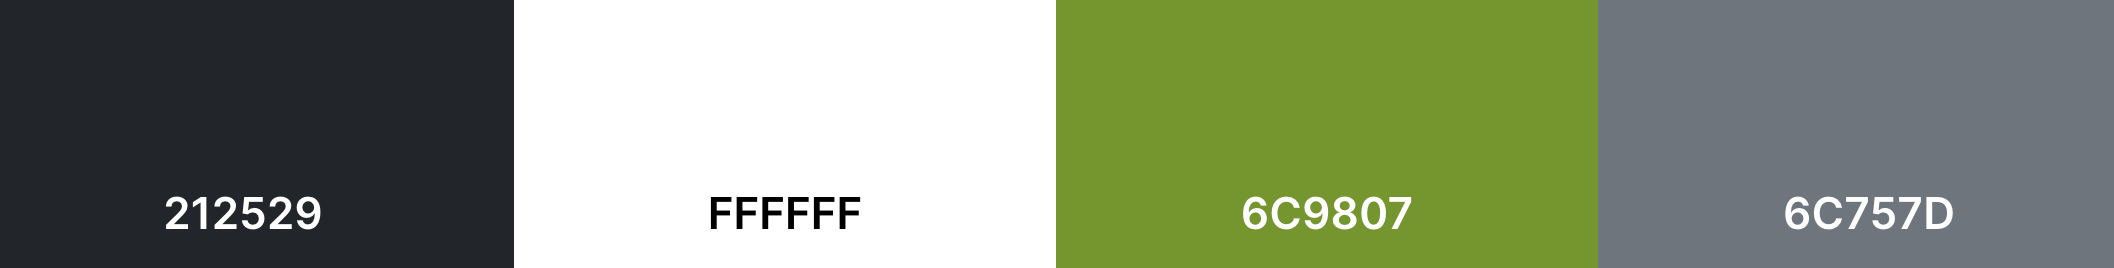
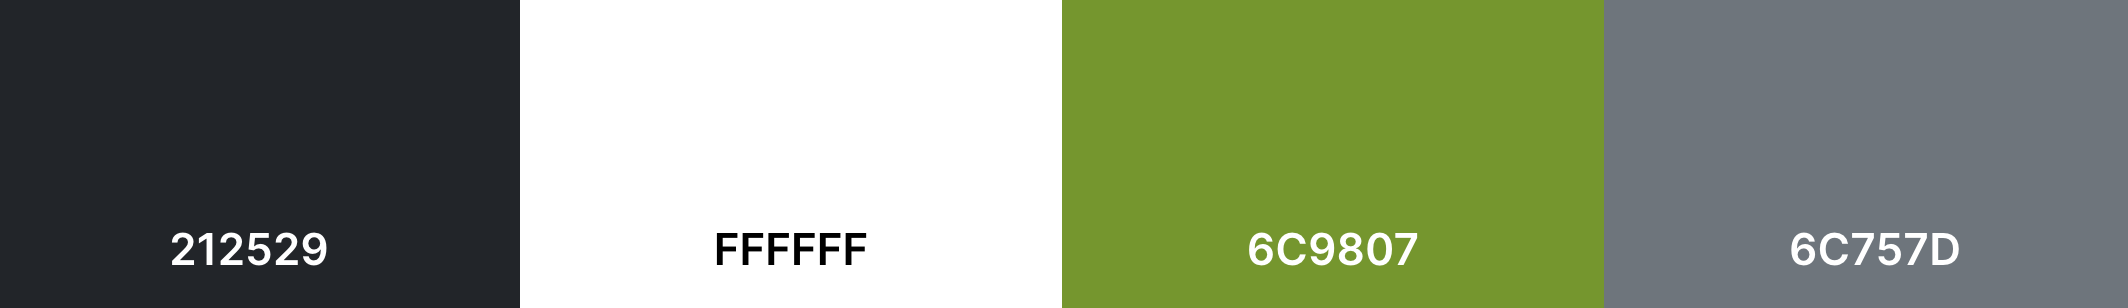
Change button colour for accessibility

diff --git a/static/css/style.css b/static/css/style.css
@@ -128,14 +128,14 @@ ul.hidden-radio>li.pressed {
 /* Member Zone styling */
 
 .active-btn {
-    background-color: #6c9807;
+    background-color: #415F07;
     margin: 15px 0px;
     width: 100%;
 }
 
 .active-btn:hover,
 .active-btn-small:hover {
-    background-color: #577a06;
+    background-color: #385007;
 }
 
 .back-btn {
@@ -145,7 +145,7 @@ ul.hidden-radio>li.pressed {
 }
 
 .active-btn-small {
-    background-color: #6c9807;
+    background-color: #415F07;
     margin: 15px 0px;
 }
 

diff --git a/README.md b/README.md
@@ -24,7 +24,6 @@ Project Repository - [Woodland Heath Golf Club - Repository](https://github.com/
   - [User Requirement Testing](#user-requirement-testing "User Requirement Testing")
   - [Functional Testing](#functional-testing "Functional Testing")
   - [Validator Testing](#validator-testing "Validator Testing")
-  - [Unfixed Bugs](#unfixed-bugs "Unfixed Bugs")
 - [Technologies Used](#technologies-used "Technologies Used")
   - [Main Languages Used](#main-languages-used "Main Languages Used")
 - [Deployment](#deployment "Deployment")
@@ -284,10 +283,11 @@ Please expand 'Functional Test Cases' below to see a breakdown of the tests carr
 |  <br>TC-042     |  <br>Logout - When the logout button is clicked in the navigation bar, the user is redirected to the home page and a success alert is displayed                                                                            |  <br>User is logged in                                                                |  <br>1. Click Logout link in navigation bar<br> <br><br><br> <br>2. Check user is redirected back to home page <br> <br><br><br> <br>3. Check alert is displayed to user to confirm they have been logged out   |  <br>Pass    |  <br>          ||  <br>TC-042     |  <br>Logout - When the logout button is clicked in the navigation bar, the user is redirected to the home page and a success alert is displayed                                                                              |  <br>User is logged in                                                                |  <br>1. Click ‘Logout’ link in navigation bar<br> <br><br><br> <br>2. Check user is redirected back to home page <br> <br><br><br> <br>3. Check alert is displayed to user to confirm they have been logged out   |  <br>Pass    |
 
 
-<br><br></details>### Validator Testing
-### Validator Testing### Unfixed Bugs
 
-## Technologies Used
+
+
+
+Validator Testing## TValidator TestsUsed
 
 - Whitenoise was used to serve the static files - [Whitenoise](https://whitenoise.readthedocs.io/en/stable/)
 - Bootstrap was used for basic html styling - [Bootstrap](https://getbootstrap.com/)
